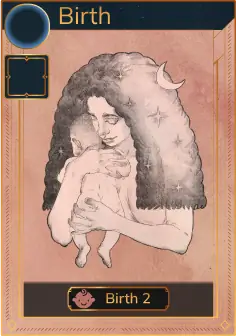
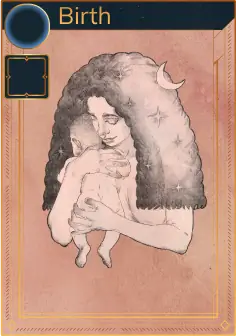
Updated token images. Removed images from keyword hints

Changed region(s): [[0.089, 0.8333, 0.9195, 0.9524]]

diff --git a/shared/state/keyword.ts b/shared/state/keyword.ts
@@ -25,42 +25,42 @@ export class Keywords {
 
   static visible = new Keyword(
     'Visible',
-    "[img=kw-Visible] - Both players can see this card while it's in the story.",
+    "[color=#FABD5D]Visible[/color]: Both players can see this card while it's in the story.",
     false,
   )
   static fleeting = new Keyword(
     'Fleeting',
-    '[img=kw-Fleeting] - After resolving, this card is removed from the game.',
+    '[color=#FABD5D]Fleeting[/color]: After resolving, this card is removed from the game.',
     false,
   )
   static morning = new Keyword(
     'Morning',
-    '[img=kw-Morning] - At the start of each round, if this is the top card of your discard pile, trigger the following effect.',
+    '[color=#FABD5D]Morning[/color]: At the start of each round, if this is the top card of your discard pile, trigger the following effect.',
     false,
   )
   static sight = new Keyword(
     'Sight',
-    '[img=kw-Sight X] - Increase your Sight by X. Sight N makes the first N cards in the story visible to you, and is removed at end of round.',
+    '[color=#FABD5D]Sight X[/color]: Increase your Sight by X. Sight N makes the first N cards in the story visible to you, and is removed at end of round.',
     true,
   )
   static inspire = new Keyword(
     'Inspire',
-    '[img=kw-Inspire X] - Next round you have X extra breath.',
+    '[color=#FABD5D]Inspire X[/color]: Next round you have X extra breath.',
     true,
   )
   static inspired = new Keyword(
     'Inspired',
-    '[img=kw-Inspire X] - This round you have X extra breath.',
+    '[color=#FABD5D]Inspire X[/color]: This round you have X extra breath.',
     true,
   )
   static nourish = new Keyword(
     'Nourish',
-    '[img=kw-Nourish X] - The next card you resolve is worth +X points.',
+    '[color=#FABD5D]Nourish X[/color]: The next card you resolve is worth +X points.',
     true,
   )
   static birth = new Keyword(
     'Birth',
-    '[img=kw-Birth X] - If you have a Child in hand, increase its points by X. Otherwise create a 0:X [img=kw-Fleeting] Child in hand.',
+    '[color=#FABD5D]Birth X[/color]: If you have a Child in hand, increase its points by X. Otherwise create a 0:X [color=#FABD5D]Fleeting[/color] Child in hand.',
     true,
   )
 }

diff --git a/shared/state/catalog/shadow.ts b/shared/state/catalog/shadow.ts
@@ -175,7 +175,7 @@ const sickness = new Sickness({
   cost: 3,
   points: -1,
   qualities: [Quality.FLEETING],
-  text: 'Fleeting, give your opponent Nourish -4, create a Sickness in their hand.',
+  text: 'Fleeting\nGive your opponent Nourish -4, create a Sickness in their hand.',
   keywords: [
     { name: Keywords.fleeting, x: 0, y: 61 },
     { name: Keywords.nourish, x: -35, y: 111, value: -4 },
